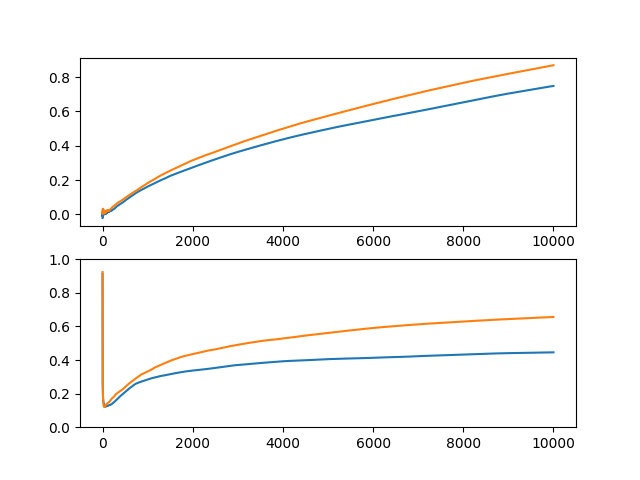
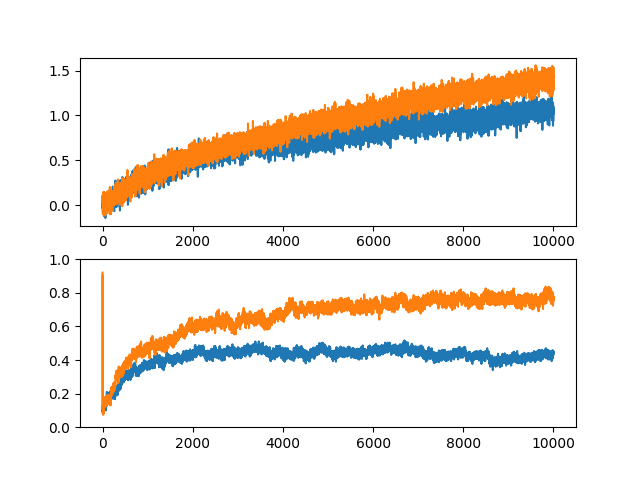
completed programming assignment of chapter 2

diff --git a/assignments/prog-ch2/simulation.py b/assignments/prog-ch2/simulation.py
@@ -12,7 +12,6 @@ opt_action_average = np.zeros(RUN_LENGTH+1)
 for j in range(NUM_TRIALS):
     reward_incremental= np.zeros(RUN_LENGTH+1)
     opt_action_incremental = np.zeros(RUN_LENGTH+1)
-
     mean = np.zeros(NUM_ARMS)
     var = np.ones(NUM_ARMS)
     qestimates = np.zeros(NUM_ARMS)
@@ -23,18 +22,18 @@ for j in range(NUM_TRIALS):
         if greedy:
             arm = np.argmax(qestimates)
         r = np.random.normal(mean[arm],var[arm])
-        cumulative_rew = reward_incremental[i-1]+(r-reward_incremental[i-1])/i
+        cumulative_rew = r#reward_incremental[i-1]+(r-reward_incremental[i-1])/i
 
         reward_incremental[i] = cumulative_rew
         if np.argmax(mean) == arm:
-            opt_action_incremental[i] = opt_action_incremental[i-1] + (1-opt_action_incremental[i-1])/i
+            opt_action_incremental[i] = 1#opt_action_incremental[i-1] + (1-opt_action_incremental[i-1])/i
         else:
-            opt_action_incremental[i] = opt_action_incremental[i-1]*(i-1)/i
+            opt_action_incremental[i] = 0#opt_action_incremental[i-1]*(i-1)/i
         qestimates_support[arm] +=1
         qestimates[arm] = qestimates[arm] + (r-qestimates[arm])/qestimates_support[arm]
         # Non-stationary 
-        for i in range(NUM_ARMS):
-            mean[i] += np.random.normal(0,0.01)
+        for k in range(NUM_ARMS):
+            mean[k] += np.random.normal(0,0.01)
     reward_average = (reward_average*j + reward_incremental)/(j+1)
     opt_action_average = (opt_action_average*j + opt_action_incremental)/(j+1)
 
@@ -45,7 +44,6 @@ opt_action_alpha = np.zeros(RUN_LENGTH+1)
 for j in range(NUM_TRIALS):
     reward_constant = np.zeros(RUN_LENGTH+1)
     opt_action_constant = np.zeros(RUN_LENGTH+1)
-
     mean = np.zeros(NUM_ARMS)
     var = np.ones(NUM_ARMS)
     qestimates = np.zeros(NUM_ARMS)
@@ -57,18 +55,17 @@ for j in range(NUM_TRIALS):
         if greedy:
             arm = np.argmax(qestimates)
         r = np.random.normal(mean[arm],var[arm])
-        cumulative_rew = reward_constant[i-1]+(r-reward_constant[i-1])/i
+        cumulative_rew = r#reward_constant[i-1]+(r-reward_constant[i-1])/i
         reward_constant[i] = cumulative_rew
         if np.argmax(mean) == arm:
-            opt_action_constant[i] = opt_action_constant[i-1] + (1-opt_action_constant[i-1])/i
+            opt_action_constant[i] = 1#opt_action_constant[i-1] + (1-opt_action_constant[i-1])/i
         else:
-            opt_action_constant[i] = opt_action_constant[i-1]*(i-1)/i
+            opt_action_constant[i] = 0#opt_action_constant[i-1]*(i-1)/i
         qestimates[arm] = qestimates[arm] + (r-qestimates[arm])*alpha
         # Non-stationary 
-        for i in range(NUM_ARMS):
-            mean[i] += np.random.normal(0,0.01)
+        for k in range(NUM_ARMS):
+            mean[k] += np.random.normal(0,0.01)
     reward_alpha = (reward_alpha*j + reward_constant)/(j+1)
     opt_action_alpha = (opt_action_alpha*j + opt_action_constant)/(j+1)
 
-print(len(reward_average[1:]))
 np.savetxt(sys.argv[1], (reward_average[1:], opt_action_average[1:], reward_alpha[1:], opt_action_alpha[1:]))
